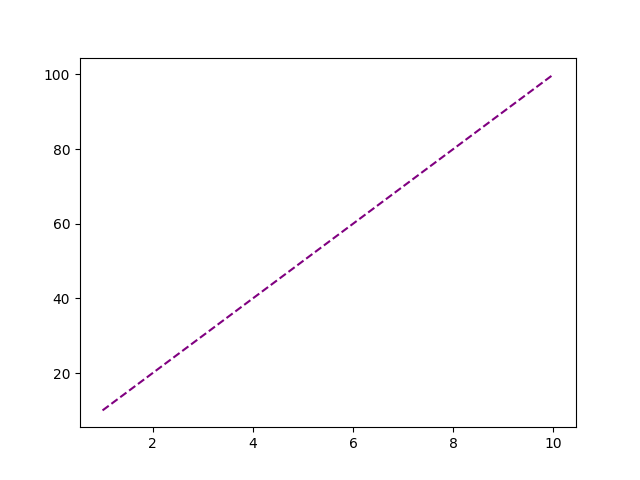
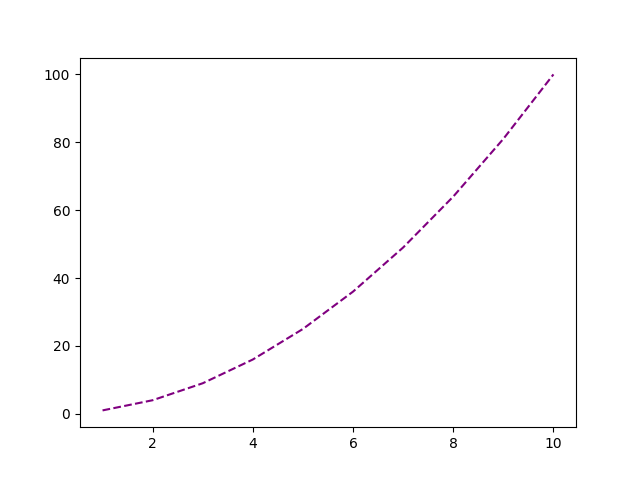
chore: pasta de imagens

diff --git a/modelo_diabetes.py b/modelo_diabetes.py
@@ -6,7 +6,7 @@ df_diabetes = pd.read_csv("./dataset/diabetes.csv")
 
 sns.lineplot(
   x=range(1,11),
-  y=[x * 10 for x in range(1,11)],
+  y=[x**2 for x in range(1,11)],
   color="purple",
   linestyle='--'
 )